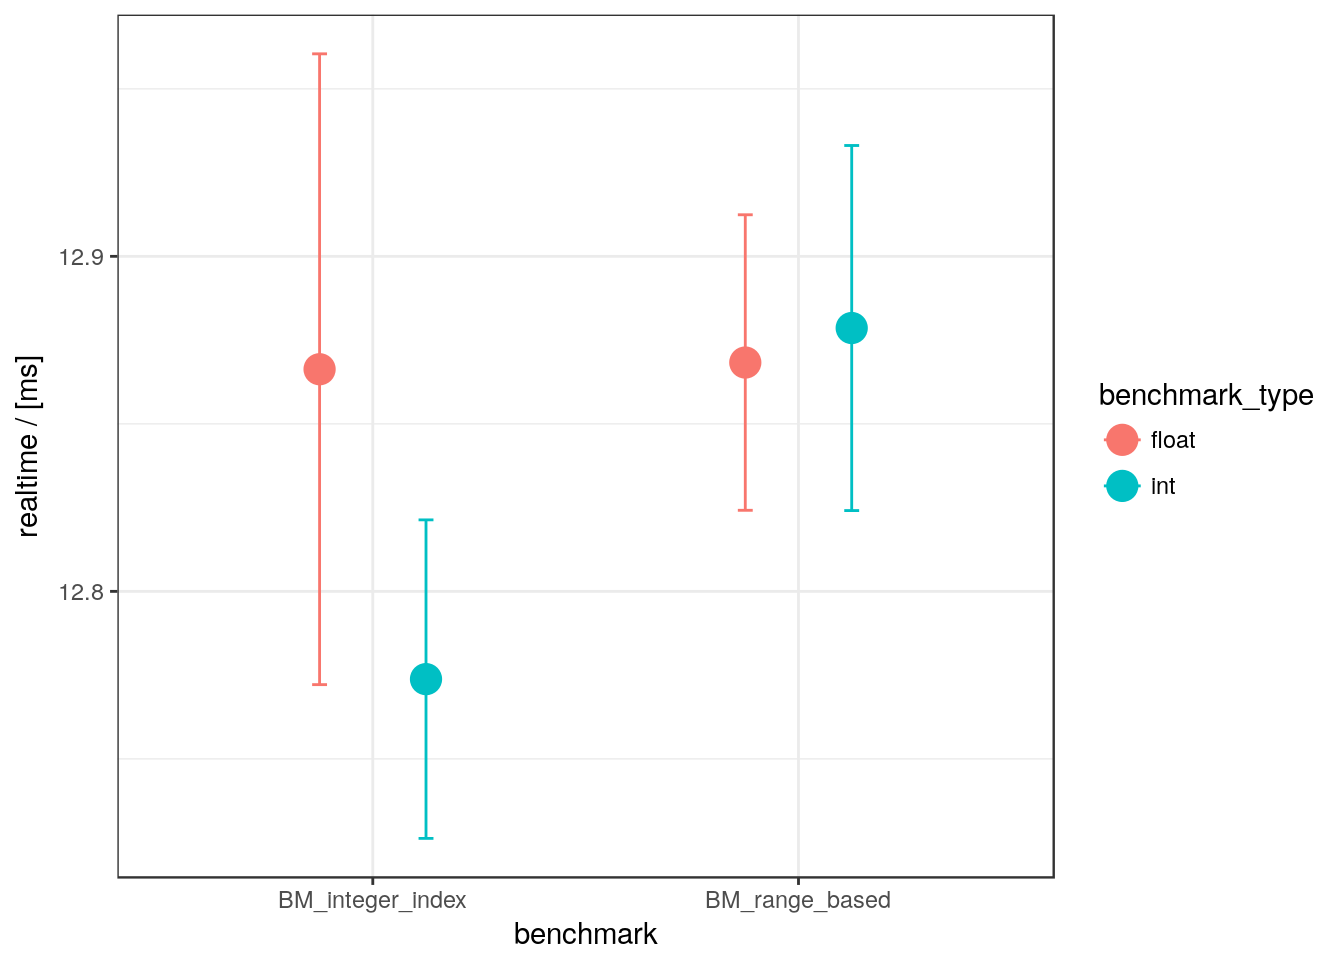
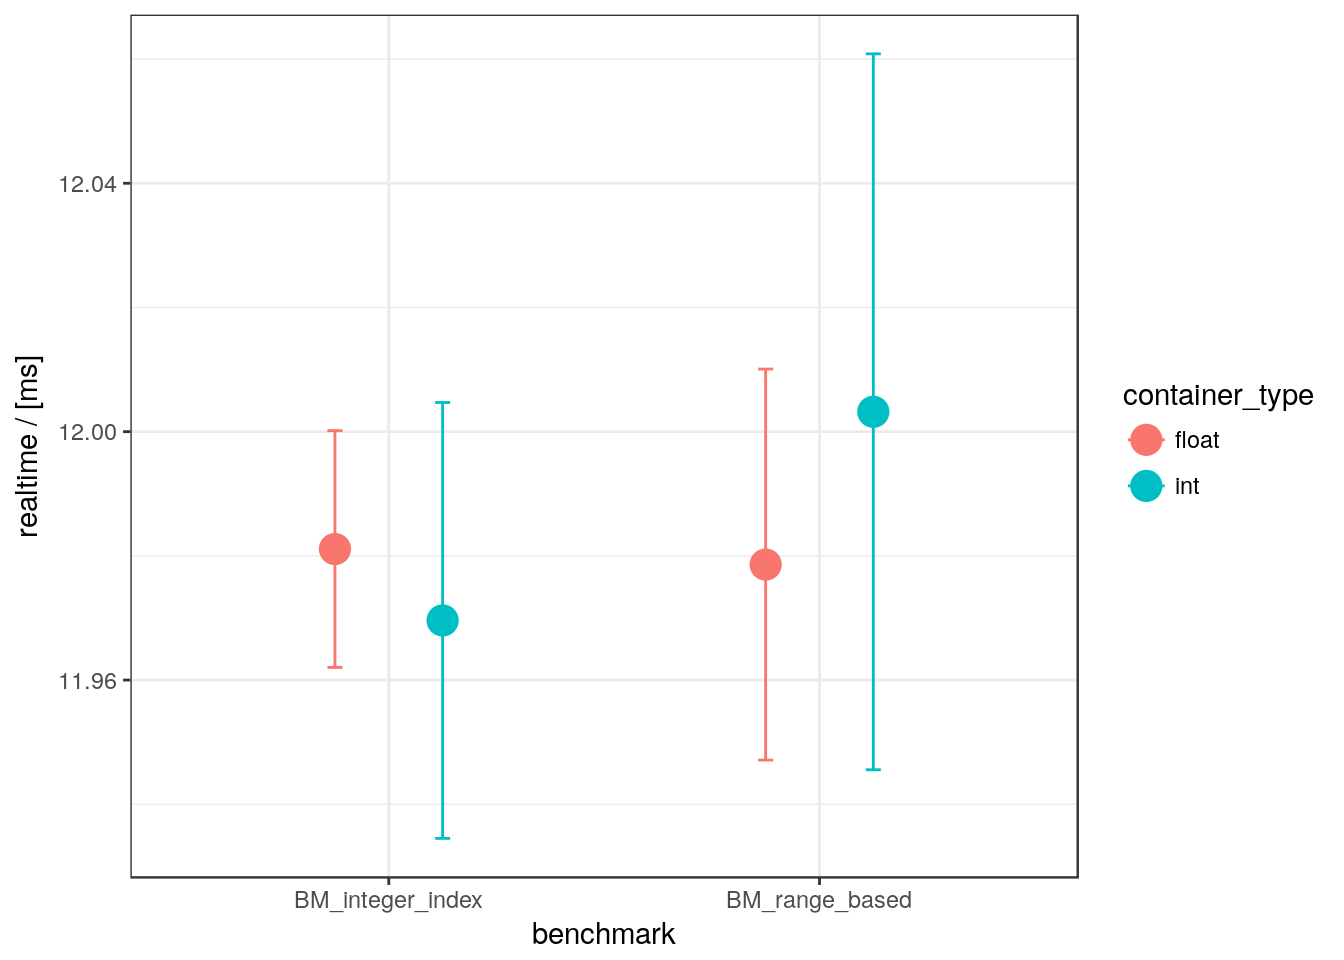
made benchmarks more homogenous

diff --git a/src/libbenchmark/forloop_style_with_args_templated.cpp b/src/libbenchmark/forloop_style_with_args_templated.cpp
@@ -5,7 +5,7 @@
 template <typename T>
 double sum(const T* _data, std::size_t _len){
 
-    double value = 0;
+    double value = 0.;
     for(std::size_t i = 0;i<_len;++i)
         value += _data[i];
 
@@ -17,7 +17,7 @@ double sum(const container_type& _data){
 
     typedef typename container_type::value_type value_t;
 
-    double value = 0;
+    double value = 0.;
     for(const value_t& el : _data)
         value += el;
 
@@ -28,8 +28,10 @@ template <typename T>
 static void BM_integer_index(benchmark::State& state) {
 
     const std::size_t len = state.range(0);
-    std::vector<T> values(len,0.f);
-    double result = 0;
+
+    static const T base = 42;
+    std::vector<T> values(len,base);
+    double result = 0.;
 
     for (auto _ : state){
         benchmark::DoNotOptimize(result = sum(values.data(), len));
@@ -43,7 +45,8 @@ template <typename T>
 static void BM_range_based(benchmark::State& state) {
 
     const std::size_t len = state.range(0);
-    std::vector<T> values(len,0.f);
+    static const T base = 42;
+    std::vector<T> values(len,base);
     double result = 0;
 
     for (auto _ : state){
